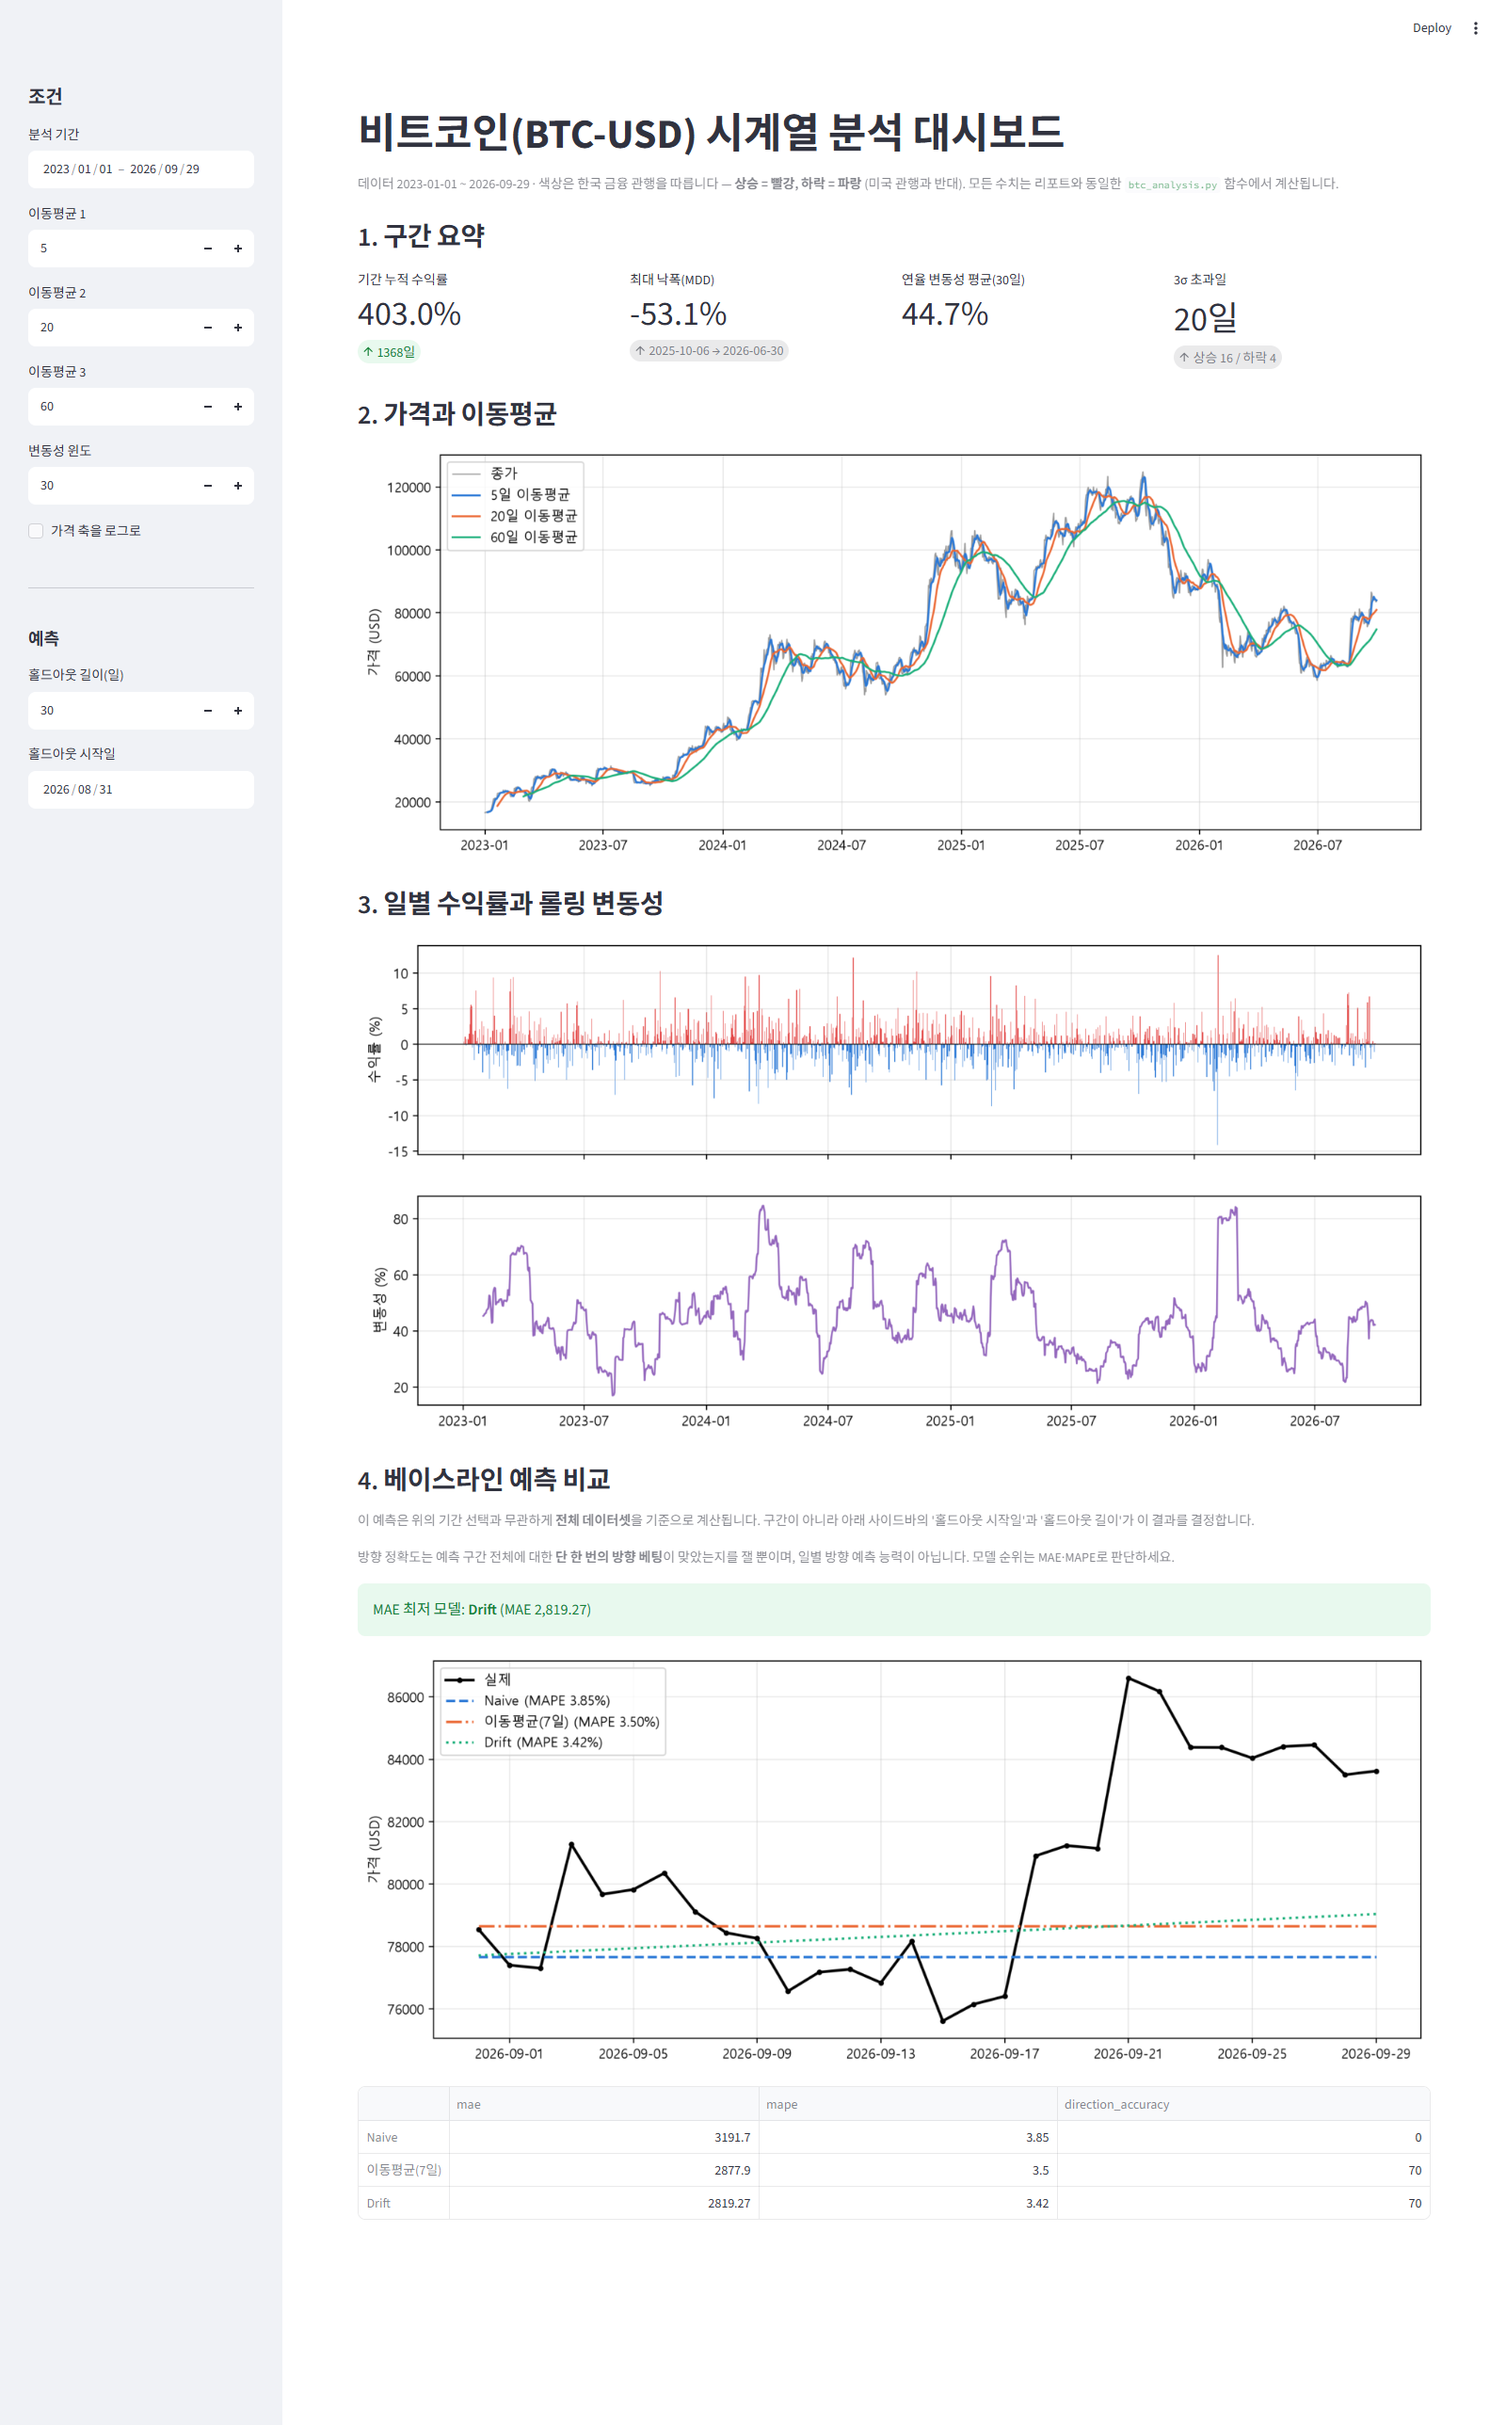
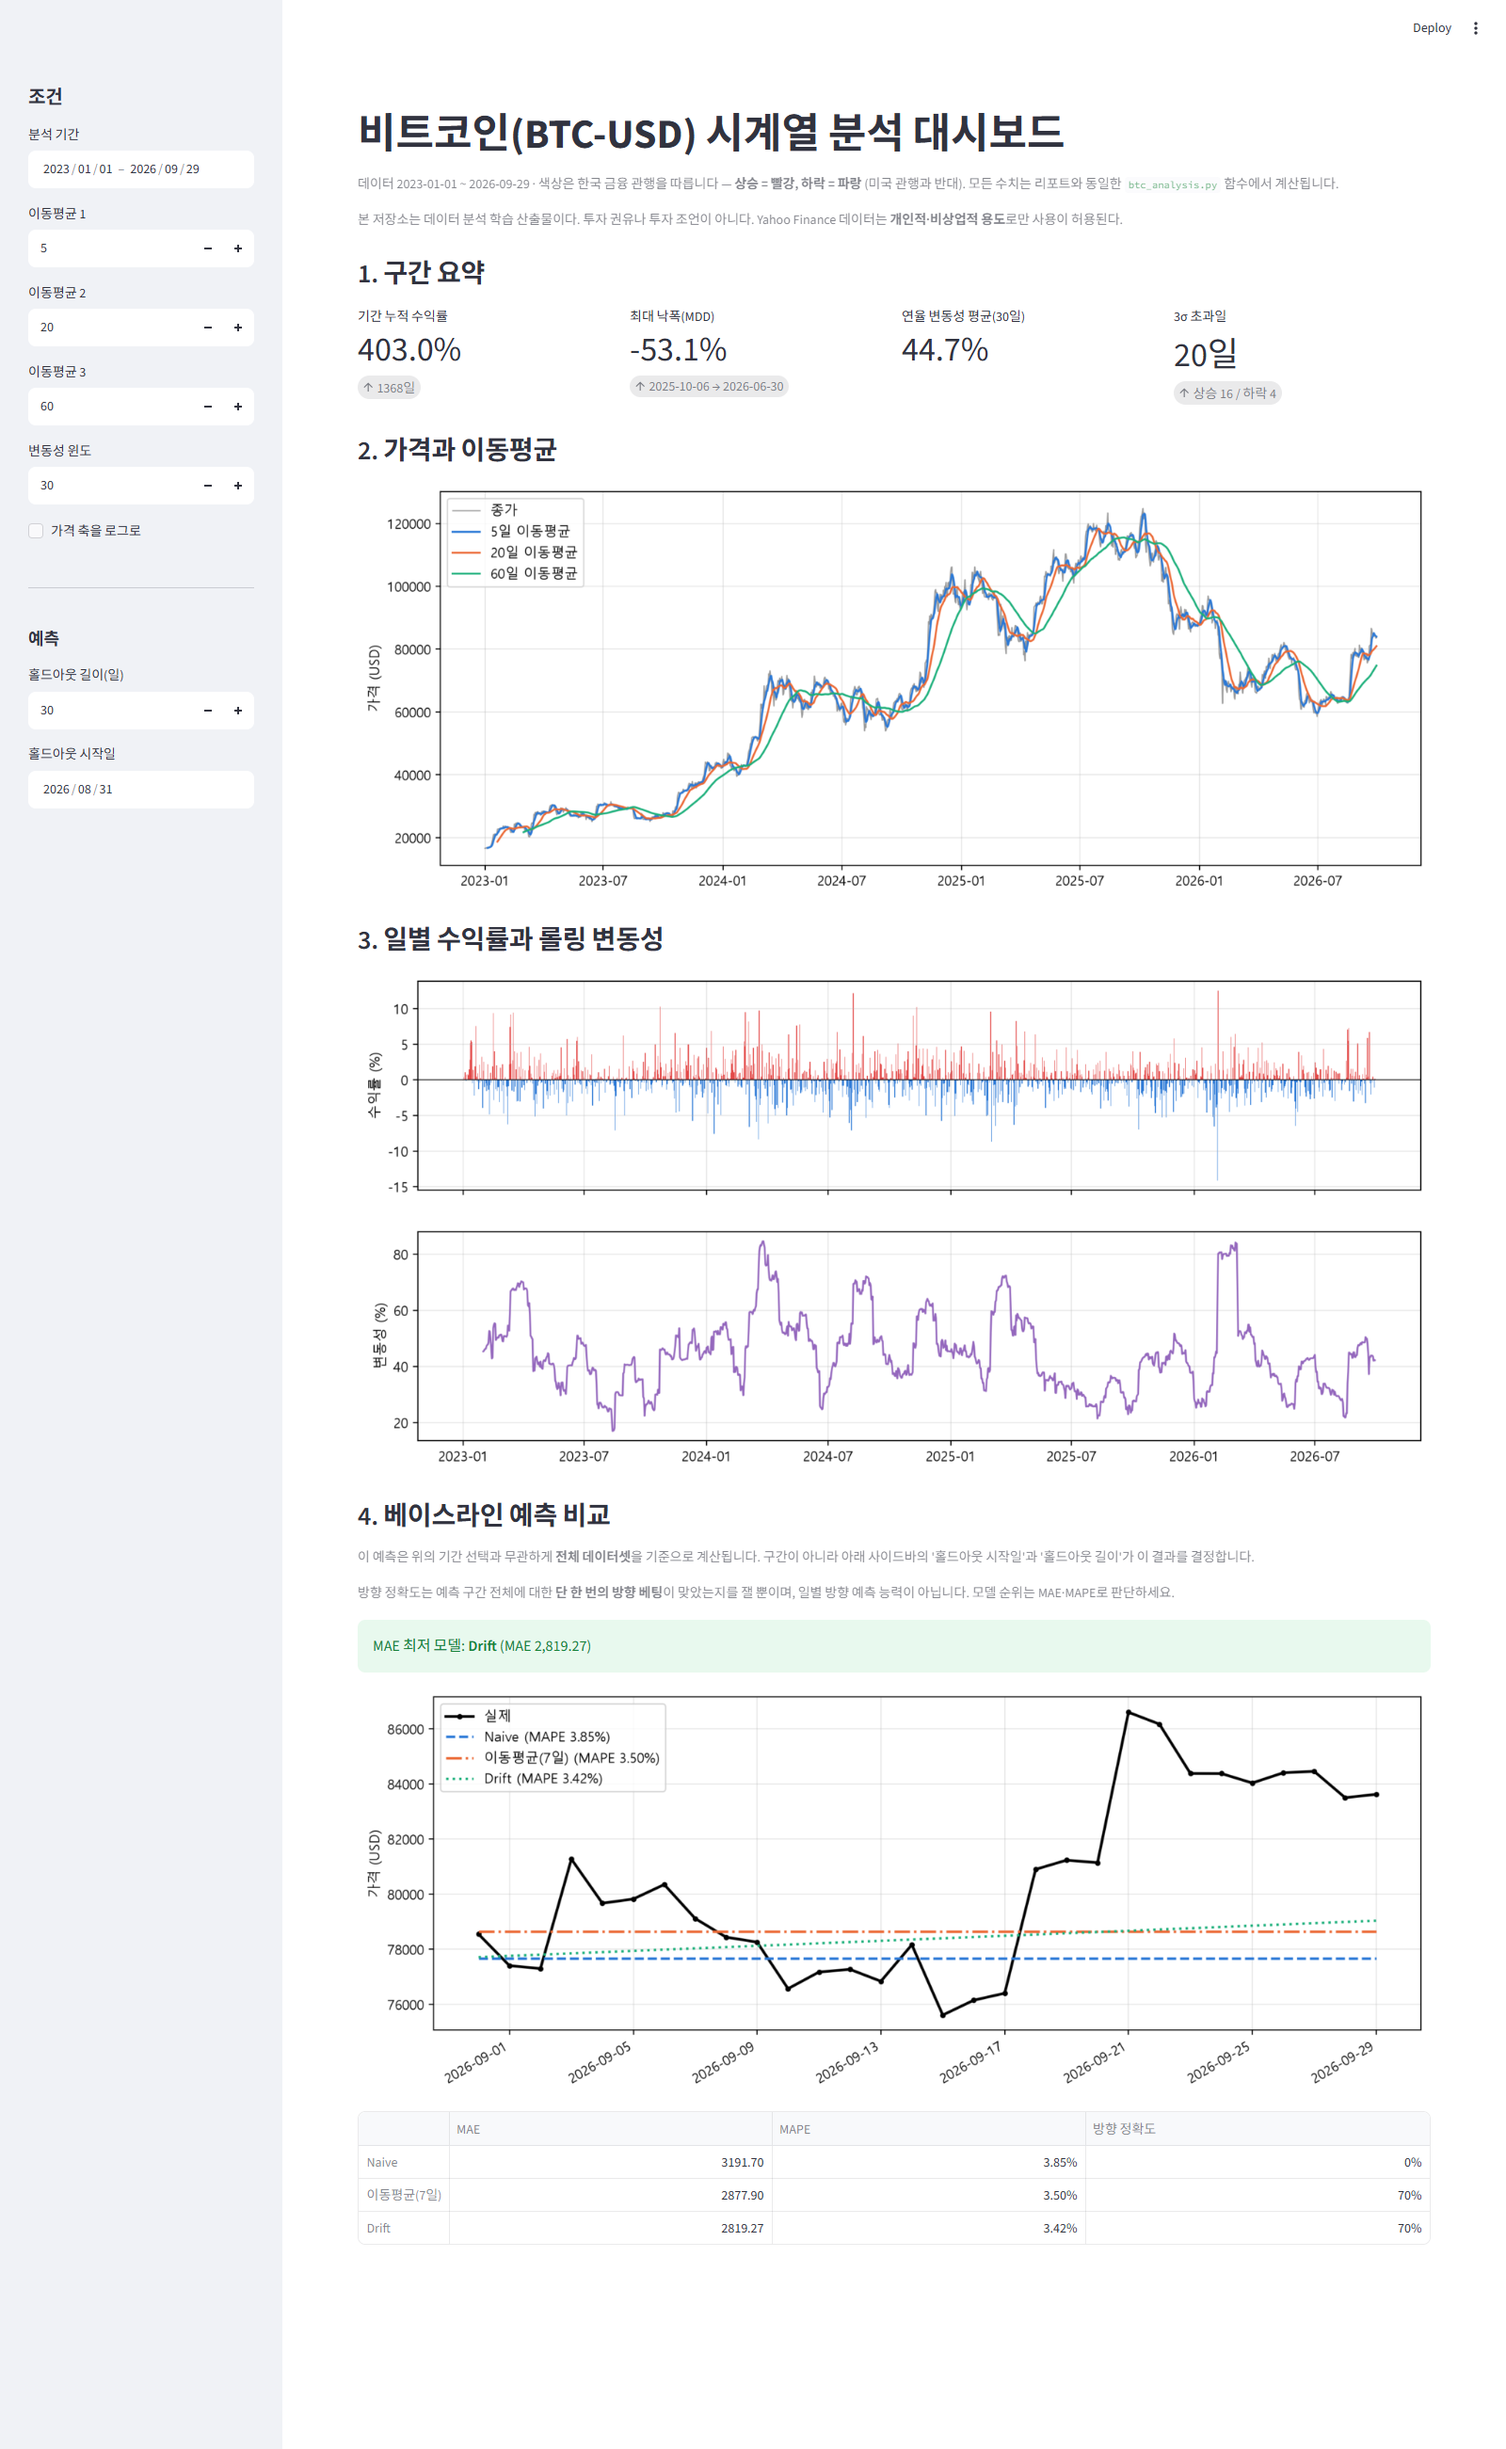
fix: 대시보드 최종 리뷰 반영 — 홀드아웃 위젯 경계, 면책 문구, 시나리오 오인용 수정
- I1: 홀드아웃 시작일 위젯의 max_value를 horizon 기준으로 좁혀 parse_params의
  보정과 위젯이 보여주는 날짜가 어긋나지 않게 함. 계획 문서의 잘못된 주장에
  날짜 있는 정정 각주 추가.
- I2: 투자 권유 아님/Yahoo Finance 비상업적 이용 고지를 dashboard.py와
  docs/dashboard/README.md에 추가.
- I3: REPORT.md에 없는 인용문을 제거하고 7.4절의 실제 MAPE 문장으로 교체,
  Drift 기울기가 항상 양(+)이라 하락 구간에서도 위로 연장된다는 메커니즘을
  장면 5에 추가.
- I4: 기간 누적 수익률 카드의 녹색 상승 화살표 제거(delta_color="off").
- M1~M8: use_container_width 제거, 자기참조 테스트 단언을 실제 값으로 교체,
  pd.isna 사용, docstring 과장 수정, 홀드아웃 범위 표 정정, 아래→위 오타,
  점수 표 헤더 한글화 및 퍼센트 표기, 예측 차트 x축 라벨 회전.
- 스펙 문서 §3 인터페이스 표와 재계산 정책의 모순에 날짜 있는 각주 추가.
- 다섯 개 스크린샷 재캡처, 61개 테스트 -W error 포함 통과 확인.

diff --git a/dashboard.py b/dashboard.py
@@ -1,7 +1,8 @@
 """비트코인 분석 대시보드 (Streamlit).
 
-계산 로직이 없는 껍데기다. 모든 수치는 dashboard_core 를 통해
-검증된 btc_analysis 함수에서 나온다.
+지표·메트릭·예측을 직접 계산하지 않는다. 그런 수치는 모두 dashboard_core 를
+통해 검증된 btc_analysis 함수에서 나온다. 이 파일에 남아 있는 산술은 표시용
+집계뿐이다(3σ 초과일 합계, 가장 긴 윈도 계산, MAE 최저 모델 선택 등).
 
 실행: streamlit run dashboard.py
 """
@@ -38,6 +39,10 @@ st.caption(
     "색상은 한국 금융 관행을 따릅니다 — **상승 = 빨강, 하락 = 파랑** (미국 관행과 반대). "
     "모든 수치는 리포트와 동일한 `btc_analysis.py` 함수에서 계산됩니다."
 )
+st.caption(
+    "본 저장소는 데이터 분석 학습 산출물이다. 투자 권유나 투자 조언이 아니다. "
+    "Yahoo Finance 데이터는 **개인적·비상업적 용도**로만 사용이 허용된다."
+)
 
 with st.sidebar:
     st.header("조건")
@@ -66,7 +71,7 @@ with st.sidebar:
         "홀드아웃 시작일",
         value=state.holdout_start.date(),
         min_value=(data_start + pd.Timedelta(days=dc.MIN_TRAIN_DAYS)).date(),
-        max_value=data_end.date(),
+        max_value=(data_end - pd.Timedelta(days=int(horizon) - 1)).date(),
     )
 
 # 위젯 값을 다시 parse_params 에 통과시켜 검증을 한 곳에만 둔다.
@@ -93,11 +98,12 @@ if window.empty:
 st.subheader("1. 구간 요약")
 summary = dc.summarize_period(window, state.vol_window)
 c1, c2, c3, c4 = st.columns(4)
-c1.metric("기간 누적 수익률", f"{summary['cum_return'] * 100:,.1f}%", f"{summary['n_days']}일")
+c1.metric("기간 누적 수익률", f"{summary['cum_return'] * 100:,.1f}%", f"{summary['n_days']}일",
+          delta_color="off")
 c2.metric("최대 낙폭(MDD)", f"{summary['mdd'] * 100:,.1f}%",
           f"{summary['mdd_peak'].date()} → {summary['mdd_trough'].date()}", delta_color="off")
 c3.metric(f"연율 변동성 평균({state.vol_window}일)",
-          "계산 불가" if summary["vol_mean"] != summary["vol_mean"]
+          "계산 불가" if pd.isna(summary["vol_mean"])
           else f"{summary['vol_mean'] * 100:,.1f}%")
 c4.metric("3σ 초과일", f"{summary['outlier_up'] + summary['outlier_down']}일",
           f"상승 {summary['outlier_up']} / 하락 {summary['outlier_down']}", delta_color="off")
@@ -169,6 +175,14 @@ else:
     ax.set_ylabel("가격 (USD)")
     ax.legend(loc="best")
     ax.grid(alpha=0.3)
+    fig.autofmt_xdate()
     st.pyplot(fig)
     plt.close(fig)
-    st.dataframe(scores.round(2), use_container_width=True)
+    st.dataframe(
+        scores.round(2),
+        column_config={
+            "mae": st.column_config.NumberColumn("MAE", format="%.2f"),
+            "mape": st.column_config.NumberColumn("MAPE", format="%.2f%%"),
+            "direction_accuracy": st.column_config.NumberColumn("방향 정확도", format="%.0f%%"),
+        },
+    )

diff --git a/tests/test_dashboard_core.py b/tests/test_dashboard_core.py
@@ -268,8 +268,7 @@ def test_parse_params_falls_back_on_non_numeric_windows():
 def test_parse_params_keeps_ma_windows_sorted_and_unique():
     s = dc.parse_params({"ma1": "60", "ma2": "5", "ma3": "5"}, DATA_START, DATA_END)
 
-    assert s.ma_windows == tuple(sorted(set(s.ma_windows)))
-    assert len(s.ma_windows) >= 1
+    assert s.ma_windows == (5, 60)
 
 
 def test_parse_params_pushes_holdout_back_when_window_would_overrun():

diff --git a/docs/superpowers/plans/2026-10-01-btc-dashboard.md b/docs/superpowers/plans/2026-10-01-btc-dashboard.md
@@ -500,6 +500,8 @@ git commit -m "feat: 구간 요약 및 임의 홀드아웃 평가 함수 추가"
 
 **검증 원칙**: 잘못된 입력에 예외를 던지지 않고 **기본값으로 보정**한다. URL은 사용자가 손으로 고칠 수 있고 캡처 스크립트가 만들기도 하므로, 오타 하나로 화면이 죽는 것보다 안전한 값으로 떨어지는 쪽이 낫다. 다만 보정 사실을 알 수 있도록 `dashboard.py`가 상태를 위젯에 반영한다.
 
+> [2026-10-01] 위 마지막 문장은 틀렸다. Streamlit 위젯의 `value=`는 **최초 렌더링 시의 초기값일 뿐**이며, 리런마다 위젯은 사용자가 마지막으로 입력한 값을 유지한다 — `parse_params`가 보정한 상태를 위젯에 "반영"할 방법이 없다(위젯을 강제로 다시 그리려면 `key`를 바꿔 위젯 자체를 새로 만들어야 하고, 그러면 사용자의 다른 조작도 함께 날아간다). 실제로 썼던 해법은 위젯이 상태를 반영하게 만드는 것이 아니라, **위젯 자신의 `max_value`를 보정 로직과 동일한 식으로 좁혀서 애초에 보정이 필요한 값을 선택할 수 없게** 만드는 것이었다(홀드아웃 시작일 위젯의 `max_value = data_end - Timedelta(days=horizon - 1)`). 자세한 내용은 코드 리뷰 I1 항목 참고.
+
 - [ ] **Step 1: 실패하는 테스트 작성**
 
 `tests/test_dashboard_core.py` 끝에 추가:
